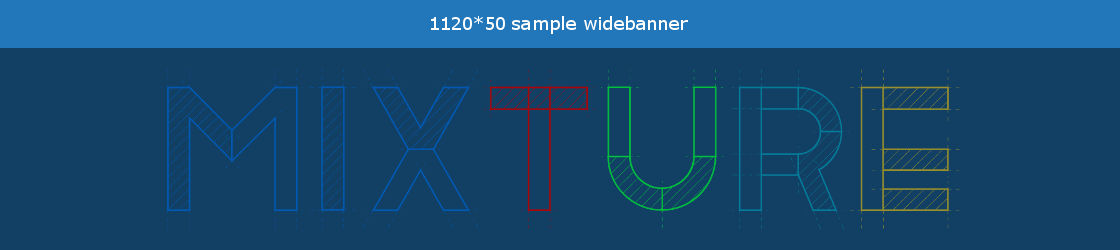
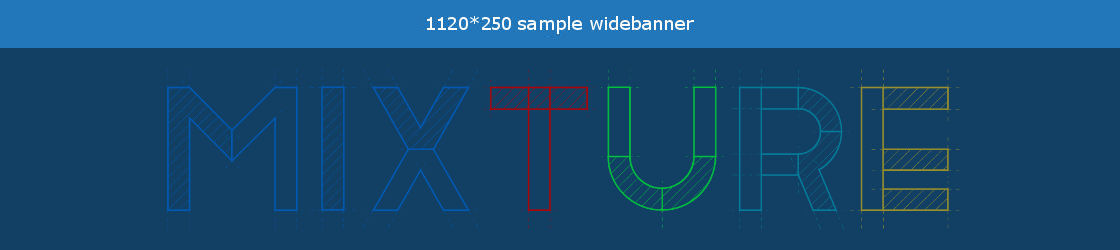
Fixed sample widebanner's height
And switched banner from `png` to `jpg`

Changed region(s): [[0.375, 0.056, 0.625, 0.14]]

diff --git a/main.php b/main.php
@@ -178,7 +178,7 @@ $showSidebar = $hasSidebar && ($ACT=='show');
                                         if ($mixture['images']['banner']['mediaId'] != null) {
                                             $bannerImage = ml($mixture['images']['banner']['mediaId'],'',true);
                                         } else {
-                                            $bannerImage = "/lib/tpl/mixture/images/banner.png";
+                                            $bannerImage = "/lib/tpl/mixture/images/banner.jpg";
                                         }
                                         $link = php_mixture_ui_link("bannerLink", substr($mixture['images']['banner']['mediaId'], 0, strrpos($mixture['images']['banner']['mediaId'], ':') + 1));
                                         $title = "Banner";
